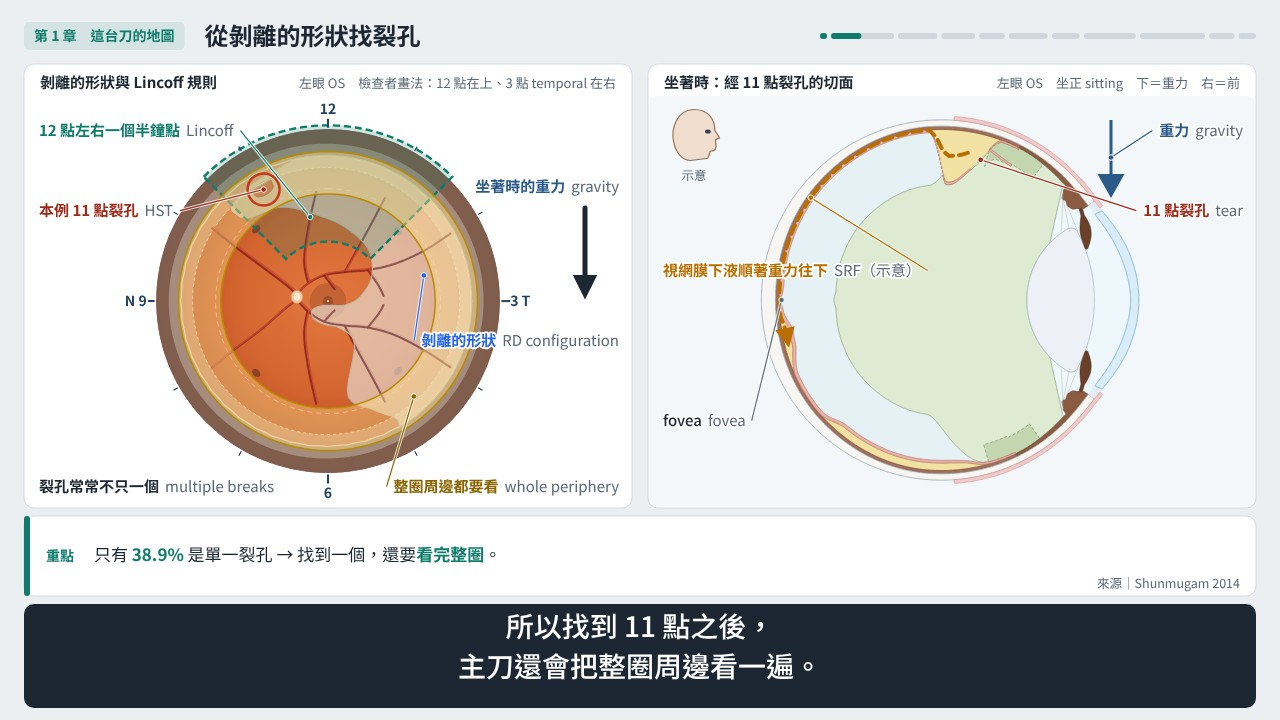
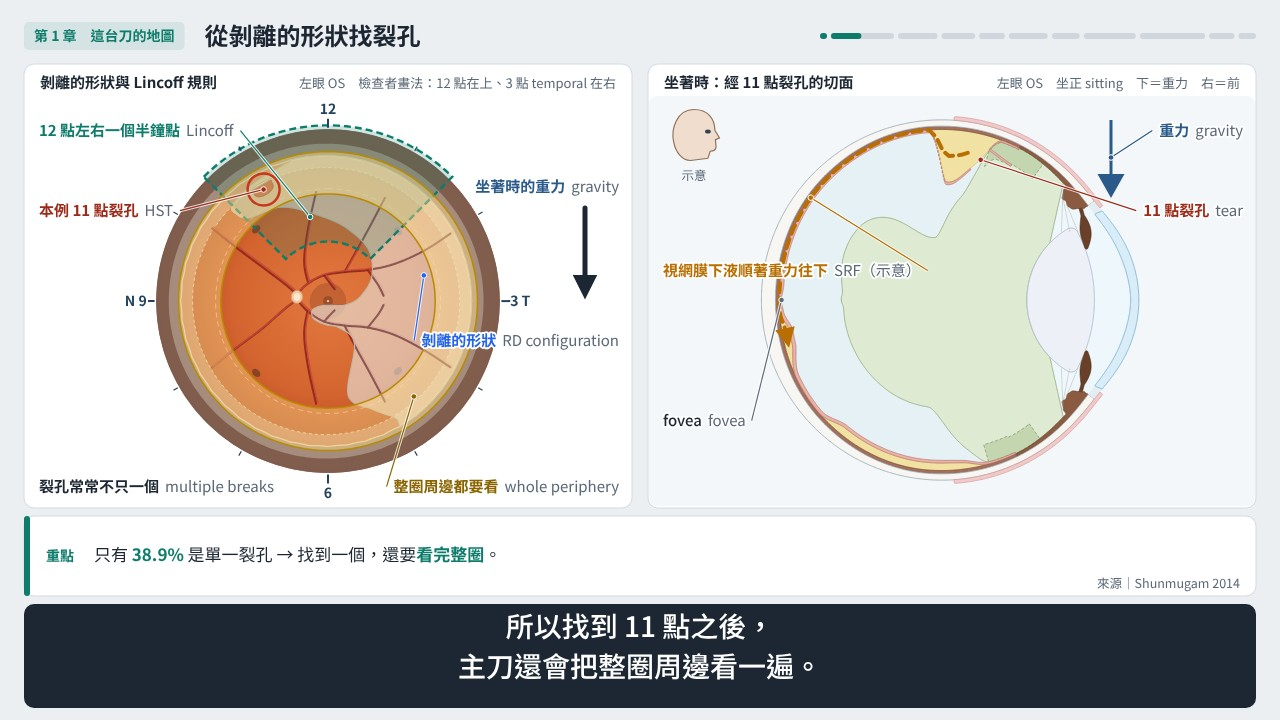
後段模型：PVD 時後玻璃體和鼓起的剝離視網膜之間留空隙
原本後玻璃體用視網膜貼平時的位置量距離，剝離鼓起的地方玻璃體被腔的邊界切掉，看起來整片貼在剝離的視網膜上（例：4-2 左圖），像沒有 PVD。改成：vitreous base 與還沒分開的地方貼在目前的視網膜上，分開後沿剝離的平滑上包絡走、和目前的視網膜保持 3.5 mm 空隙（示意），黃斑的舌頭不再讓它起伏；core vitrectomy 剩下的玻璃體殼跟著往內移、厚度不變。posterior/check.js 加 D13（空隙、vitreous base 與瓣上黏著、平滑、殼的厚度）與 4 個故意改錯；4-1 廣角的 PVD 範圍環改畫在後玻璃體上；樣本圖與 1-1、1-2、1-3、2-1、2-2、3-1、3-2、4-1、4-2 的參考圖放大自檢後更新；模型卡同步。

diff --git a/videos/models/posterior/posterior.js b/videos/models/posterior/posterior.js
@@ -37,6 +37,7 @@ const POSTERIOR = (() => {
     field: 130,                                 // non-contact wide-angle field, degrees (Tabandeh 2012: most systems 120–140°; 130 示意)
     vortex: 7.6,                                // vortex vein ampullae 7.6 mm behind the ora (Sohn 2020)
     pvdGap: 3.5,                                // detached posterior hyaloid in front of the retina (示意)
+    pvdEnv: 3.4,                                // the hyaloid rides over a smooth envelope of the detachment: dilation radius on the fundus chart, mm (示意)
   };
 
   // ---------------------------------------------------------------- outer profile 0–180° (globe/ stops at 150°): same formula and step
@@ -169,7 +170,23 @@ const POSTERIOR = (() => {
       buf[j * NX + i] = (inside ? 1 : -1) * Math.sqrt(bd); }
     const f = (x, y) => { const u = (x - X0) / ST, v = (y - X0) / ST; if (u < 0 || v < 0 || u >= NX - 1 || v >= NX - 1) return -9;
       const i = Math.floor(u), j = Math.floor(v), a = u - i, b = v - j, q = j * NX + i; return lerp(lerp(buf[q], buf[q + 1], a), lerp(buf[q + NX], buf[q + NX + 1], a), b); };
-    if (SDF_CACHE.size > 20) SDF_CACHE.delete(SDF_CACHE.keys().next().value); SDF_CACHE.set(key, f); return f;
+    f.key = key; if (SDF_CACHE.size > 20) SDF_CACHE.delete(SDF_CACHE.keys().next().value); SDF_CACHE.set(key, f); return f;
+  }
+  // smooth upper envelope of a height field on the fundus chart (2026-11-12; the posterior hyaloid over a detachment): fn (chart mm → mm) sampled on the
+  // sdf's raster, dilated (square, radius 2B + 1 cells ≈ N.pvdEnv) and blurred twice by boxes of B cells (support 2B), so at every point the envelope
+  // ≥ fn within a cell (smooth: no bumps where the field has them); bilinear, cached by key
+  const ENV_CACHE = new Map();
+  function envOf(key, fn) {
+    if (ENV_CACHE.has(key)) return ENV_CACHE.get(key);
+    const X0 = -32, ST = 0.2, NX = 321, n = NX * NX, B = Math.max(1, Math.floor((N.pvdEnv / ST - 1) / 2)), RR = 2 * B + 1, a = new Float32Array(n), b = new Float32Array(n);
+    for (let j = 0; j < NX; j++) for (let i = 0; i < NX; i++) a[j * NX + i] = fn(X0 + i * ST, X0 + j * ST);
+    const pass = (src, dst, r, max, dx) => { for (let j = 0; j < NX; j++) for (let i = 0; i < NX; i++) { let m = 0, cnt = 0;
+        for (let k = -r; k <= r; k++) { const ii = i + k * dx, jj = j + k * (1 - dx); if (ii < 0 || jj < 0 || ii >= NX || jj >= NX) continue; const v = src[jj * NX + ii]; if (max) { if (v > m) m = v; } else { m += v; cnt++; } }
+        dst[j * NX + i] = max ? m : m / cnt; } };
+    pass(a, b, RR, true, 1); pass(b, a, RR, true, 0); for (let k = 0; k < 2; k++) { pass(a, b, B, false, 1); pass(b, a, B, false, 0); }
+    const f = (x, y) => { const u = (x - X0) / ST, v = (y - X0) / ST; if (!(u >= 0 && v >= 0 && u < NX - 1 && v < NX - 1)) return 0;
+      const i = Math.floor(u), j = Math.floor(v), p = u - i, q = v - j, o = j * NX + i; return lerp(lerp(a[o], a[o + 1], p), lerp(a[o + NX], a[o + NX + 1], p), q); };
+    if (ENV_CACHE.size > 12) ENV_CACHE.delete(ENV_CACHE.keys().next().value); ENV_CACHE.set(key, f); return f;
   }
 
   // ---------------------------------------------------------------- state
@@ -233,6 +250,19 @@ const POSTERIOR = (() => {
     const sk = st.suck ? Object.assign({ w: 1.0 }, st.suck) : null;
     const H = !sk ? H0 : (s, h) => { const b = H0(s, h); if (!(b > 0)) return b; const ds = s - sk.s; let dh = h - sk.h; dh -= 12 * Math.round(dh / 12);
       const dc = dh * 30 * D2R * surfAt(sk.s).rho; return b + sk.amt * ss(0, 0.3, b) * Math.exp(-(ds * ds + dc * dc) / (sk.w * sk.w)); };
+    // posterior hyaloid (2026-11-12): hya(s, h) = how far it lies in front of where the retina's inner surface is when attached (mm). In the vitreous
+    // base, and where it has not come off yet (pvd), it lies on the retina as it is now (H0, detached or not). Behind the line where it comes off
+    // (hyaSp) it leaves the retina for env, a smooth upper envelope of the detachment (env ≥ H0), within 1.5 mm (B 0 → 1), and its gap above env
+    // rises to N.pvdGap over 5 mm (R 0 → 1): it keeps a gap ≥ R × N.pvdGap from the bulging retina, and away from where it comes off it does not
+    // follow the bumps of the border (the macular tongue). env is the detachment for amt 1 (without suck) on the fundus chart, built on first use.
+    let ENV = null;
+    const env = (fx, fy) => { if (!rd || !(rd.amt > 0)) return 0;
+      if (!ENV) ENV = envOf(sdf.key + JSON.stringify([ts, rd.lo, rd.hi, st.pfcl > 0 ? [lev.pfcl, g] : 0]), (x, y) => { const hs = hsChart(x, y), ora = oraAt(hs.h, ts); if (hs.s < ora) return 0;
+        const d = sdf(x, y); return d <= 0 ? 0 : Hpk(x, y) * ss(0, 1.2, d) * ss(ora, ora + 5.0, hs.s) * flat(hs.h, hs.s); });
+      return rd.amt * ENV(fx, fy); };
+    const hyaSp = h => lerp(S_POLE + 2, vbPostAt(h, ts), st.pvd || 0);
+    const hya = (s, h) => { const h0 = H0(s, h); if (s < oraAt(h, ts)) return h0; const sp = hyaSp(h), R = ss(sp, sp + 5, s), B = ss(sp, sp + 1.5, s); if (!(R > 0)) return h0;
+      const [fx, fy] = chartHS(h, s), he = Math.max(env(fx, fy), h0); return h0 + B * (he - h0) + R * N.pvdGap; };
     const Dp = (s, h) => { if (!dep) return 0; const ds = s - dep.s; let dh = h - dep.h; dh -= 12 * Math.round(dh / 12); const dc = dh * 30 * D2R * surfAt(dep.s).rho; return dep.depth * Math.exp(-(ds * ds + dc * dc) / (dep.w * dep.w)); };
     const rtHS = (h, s) => { const [fx, fy] = chartHS(h, s); return rtAt(fx, fy, s, oraAt(h, ts), D); };
     // a point on the retina: frac 0 = outer (photoreceptor) side, 1 = inner (ILM) side; includes the detachment and the indentation
@@ -244,7 +274,7 @@ const POSTERIOR = (() => {
       const fr = (fn) => { const Q = fn(t.h, sh, 0.5), eu = unit(sub(fn(t.h, sh + 0.05, 0.5), fn(t.h, sh - 0.05, 0.5))), ec0 = unit(sub(fn(t.h + 0.005, sh, 0.5), fn(t.h - 0.005, sh, 0.5)));
         const ec = unit(sub(ec0, mul(eu, dot(ec0, eu)))); let en = unit(cross(ec, eu)); if (dot(en, Q) > 0) en = mul(en, -1); return { Q, eu, ec, en }; };
       tear = Object.assign({ sh, ts }, t, { fr: fr(ret), fr0: fr(ret0), th: rtHS(t.h, sh), ang: t.flap * D2R }); }
-    return { st, ts, D, g, rd, poly, sdf, H, H0, Dp, lev, dep, ret, ret0, rtHS, tear, flat, suck: sk };
+    return { st, ts, D, g, rd, poly, sdf, H, H0, Dp, lev, dep, ret, ret0, rtHS, tear, flat, suck: sk, env, hyaSp, hya };
   }
   // U-shaped hole in tangent coordinates (u posterior from the hinge, c across): signed distance, negative inside
   function sdU(u, c, W, L) { const r = W / 2, cx = (L - r) / 2, hx = (L - r) / 2, qx = Math.abs(u - cx) - hx, qy = Math.abs(c) - r;
@@ -366,11 +396,13 @@ const POSTERIOR = (() => {
       iris: c => { if (c.rho < N.pupil - 0.3 || c.rho > IRIS.root[1] + 0.8 || c.z < IRIS.root[0] - 0.8 || c.z > IRIS.pm[0] + 1.0) return 1; const q = [c.z, c.rho];
         let bd = 1e9, bt = 0; const L = IRIS.line; for (let i = 1; i < L.length; i++) { const a = L[i - 1], e = [L[i][0] - a[0], L[i][1] - a[1]], l2 = e[0] * e[0] + e[1] * e[1]; let t = ((q[0] - a[0]) * e[0] + (q[1] - a[1]) * e[1]) / l2; t = clamp(t, 0, 1);
           const d = Math.hypot(q[0] - a[0] - e[0] * t, q[1] - a[1] - e[1] * t); if (d < bd) { bd = d; bt = (i - 1 + t) / (L.length - 1); } } return bd - IRIS.th(bt) / 2; },
-      // vitreous gel: in the cavity, in front of the posterior hyaloid (detached by pvd), within the shell left by the cutter; a cord holds the flap
-      gel: c => { const cv = cav(c); if (cv > 0.5) return 1; const e = c.dd - innerD(c) + c.H;   // mm in front of where the retina's inner surface lies when attached (smooth hyaloid over a detachment)
-        const vbp = vbPostAt(c.h, ts), spvd = lerp(S_POLE + 2, vbp, st.pvd || 0), gap = c.s < c.ora ? 0 : N.pvdGap * ss(spvd, spvd + 5, c.s);
+      // vitreous gel: in the cavity, in front of the posterior hyaloid (detached by pvd: Gm.hya, the same formula), within the shell left by the cutter;
+      // a cord holds the flap. Where the hyaloid has come off, the gel body rides over the detachment's envelope (B × he): the shell keeps its thickness
+      gel: c => { const cv = cav(c); if (cv > 0.5) return 1; const e = c.dd - innerD(c) + c.H;   // mm in front of where the retina's inner surface lies when attached
+        const vbp = vbPostAt(c.h, ts), sp = Gm.hyaSp(c.h), R = c.s < c.ora ? 0 : ss(sp, sp + 5, c.s), B = R > 0 ? ss(sp, sp + 1.5, c.s) : 0;
+        const h0 = Gm.suck ? Gm.H0(c.s, c.h) : c.H, he = R > 0 ? Math.max(Gm.env(c.fx, c.fy), h0) : h0, hy = h0 + B * (he - h0) + R * N.pvdGap;
         let shell = lerp(30, 3.0, vit.cut); if (vit.shave > 0) shell = c.s < vbp + 0.5 ? lerp(shell, 0.45, vit.shave) : lerp(shell, 0, vit.shave);
-        let gg = Math.max(cv, gap - e, e - shell);
+        let gg = Math.max(cv, hy - e, e - shell - B * he);
         if (cord && cord.b) gg = Math.min(gg, Math.max(cv, capsule(c.p, cord.a, cord.b, 0.32 * (1 - vit.shave))));
         return gg; },
       // vitreous base (示意 thickness 1.2 mm): the gel firmly attached from 2 mm in front of the ora to its posterior border
@@ -418,7 +450,7 @@ const POSTERIOR = (() => {
         anc('plana' + k, P3(hh, (PLICATA_END + ora) / 2, G.T((PLICATA_END + ora) / 2) + 0.1)); anc('plicata' + k, P3(hh, GN.spur + 1.0, G.T(GN.spur + 1.0) + 0.5)); anc('limbus' + k, P3(hh, 0, 0));
         anc('equator' + k, Gm.ret(hh, S_EQ, 1)); anc('choroid' + k, P3(hh, S_EQ + 3, Tp(S_EQ + 3) + chorAt(S_EQ + 3) / 2)); anc('sclera' + k, P3(hh, S_EQ + 3, Tp(S_EQ + 3) / 2));
         anc('vb' + k, P3(hh, ora, G.T(ora) + cilTh(ora - GN.spur, ora - GN.spur) + 0.6));
-        const sp = S_POLE - 4, spvd = lerp(S_POLE + 2, vbPostAt(hh, ts), st.pvd || 0); anc('hyaloid' + k, P3(hh, sp, Tp(sp) + chorAt(sp) + Gm.rtHS(hh, sp) + N.pvdGap * ss(spvd, spvd + 5, sp))); }
+        const sp = S_POLE - 4; anc('hyaloid' + k, P3(hh, sp, Tp(sp) + chorAt(sp) + Gm.rtHS(hh, sp) + Gm.hya(sp, hh))); }
       A.hyaloid = A.hyaloidL;
       anc('fovea', Gm.ret(12, S_POLE, 1)); anc('lens', [0, 0, (LENS.za + LENS.zp) / 2]); anc('lensBack', [0, 0, LENS.zp]); }
     anc('centre', [0, 0, 0]);

diff --git a/videos/models/posterior/check.js b/videos/models/posterior/check.js
@@ -43,6 +43,7 @@ const LIT = {
   shaft: 0.6,                             // de Oliveira 2016 (23G)
   foveola: 0.35,                          // Curcio 1990
   coverSit: 0.035,                        // 推算 (CARD.md): smallest gas fraction that covers the whole 11 o'clock tear sitting upright, flat interface
+  pvdGap: 3.5, pvdRise: 5,                // 示意 (CARD.md): with a PVD the hyaloid lies 3.5 mm in front of the retina, reached 5 mm behind the vitreous base
 };
 const CASE = { eye: 'OS', tear: 11, rdFrom: 11.5, rdTo: 5 };   // 病例 (spec.md, 2026-11-12)
 const oraLit = (h, eye = 'OS') => { const ts = eye === 'OS' ? 1 : -1; return (LIT.oraT + LIT.oraN) / 2 + (LIT.oraT - LIT.oraN) / 2 * clockDir(h)[0] * ts; };   // smooth between clock hours (示意)
@@ -231,6 +232,40 @@ def('D10', (P, ok) => { const at = (st, h, s, e) => { const Gm = P.geom(st), f =
   ok(at({ eye: 'OS', pvd: 0 }, 12, P.S_POLE - 0.5, 0.1), 'no PVD: gel on the retina at the posterior pole');
   ok(!at({ eye: 'OS', pvd: 1 }, 12, P.S_POLE - 0.5, 0.1) && !at({ eye: 'OS', pvd: 1 }, 12, P.S_POLE - 0.5, 2.0), 'PVD: no gel within 2 mm of the posterior pole');
   ok(at({ eye: 'OS', pvd: 1 }, 3, oraLit(3) + 0.5, 0.1), 'PVD: gel still on the retina at the vitreous base'); });
+// D13 PVD over the detachment (2026-11-12; Govetto 2024: every eye with a tear has a PVD). Measured on the drawn gel along the wall's inward normal from the
+// retina as it is now (detached, bulging): behind the vitreous base (outside the tear and its flap, not at the disc) the hyaloid is off the retina from 1 mm
+// on and ≥ 3.5 mm off it from 5 mm on (示意, CARD.md), also over the bullous part; in the vitreous base and on the flap's free edge the gel touches it.
+// Smooth: along the 5 o'clock meridian (the section of the videos) the retina rises twice (the inferior detachment, then the macular tongue) but the
+// hyaloid rises once and stays (it does not follow the tongue), and along 11 o'clock it has one hump at most. After a core vitrectomy the gel left over the
+// bulge is as thick as over attached retina (the gel body is displaced, not cut away)
+def('D13', (P, ok) => { const st = P.PRESET.rrd, Gm = P.geom(st), f = P.makeCtx(Gm), T = Gm.tear, vbp = h => P.vbPostAt(h, 1);
+  // the first gel along n from p (mm; 0 when p is in the gel) and where that gel ends
+  const gelRun = (ff, p, n, max = 14) => { const g = d => ff.gel(ff.at(add(p, mul(n, d)))) < 0; let d = 0; while (d <= max && !g(d)) d += 0.05; if (d > max) return [max, max];
+    let a = d; if (d > 0) { let lo = d - 0.05, hi = d; for (let k = 0; k < 8; k++) { const m = (lo + hi) / 2; g(m) ? hi = m : lo = m; } a = hi; }
+    let e = d; while (e <= max && g(e)) e += 0.05; return [a, e]; };
+  const inward = (h, s) => mul(P.N3(h, s), -1), gapAt = (h, s, ff = f, G2 = Gm) => gelRun(ff, G2.ret(h, s, 1), inward(h, s))[0];
+  const skip = (h, s) => (Math.abs(hdiff(h, CASE.tear)) < 0.6 && s < vbp(h) + T.L + 1.5) || f.at(Gm.ret(h, s, 1)).dq < 1.3;   // the tear and its flap; the disc
+  let off = 9, full = 9, offAt = '', fullAt = '', n = 0, Hbig = 0, nBig = 0;
+  for (let h = 0.5; h <= 12; h += 0.5) for (let s = vbp(h) + 1; s <= P.S_POLE - 0.4; s += 0.5) { if (skip(h, s)) continue; const g = gapAt(h, s), H = Gm.H(s, h); n++;
+    if (s < vbp(h) + LIT.pvdRise) { if (g < off) { off = g; offAt = `${h} o'clock ${(s - vbp(h)).toFixed(1)} mm behind the base`; } }
+    else { if (g < full) { full = g; fullAt = `${h} o'clock ${(s - vbp(h)).toFixed(1)} mm behind the base, retina detached ${H.toFixed(2)} mm`; } if (H >= 3) { nBig++; Hbig = Math.max(Hbig, H); } } }
+  ok(n > 300 && off >= 0.1 && full >= LIT.pvdGap - 0.05 && nBig > 10,
+    `PVD, ${n} points behind the vitreous base: hyaloid off the retina as it is now ≥ ${off.toFixed(2)} mm within ${LIT.pvdRise} mm of the base (${offAt}), ≥ ${full.toFixed(2)} mm beyond (${fullAt}; 示意 ${LIT.pvdGap}), ${nBig} of them over retina detached ≥ 3 mm (up to ${Hbig.toFixed(2)})`);
+  let vb = 0; for (let h = 0.5; h <= 12; h += 1) for (const s of [oraLit(h) + 0.3, (oraLit(h) + vbp(h)) / 2, vbp(h) - 0.3]) vb = Math.max(vb, gapAt(h, s));
+  const fe = P.flapPt(T, T.L, 0), onFlap = [[0, 0, 0], [0.12, 0, 0], [0, 0.12, 0], [0, 0, 0.12], [-0.12, 0, 0], [0, -0.12, 0], [0, 0, -0.12]].some(e => inside(f, 'gel', add(fe, e)));
+  ok(vb <= 0.05 && onFlap, `gel on the retina in the vitreous base all round (gap ≤ ${vb.toFixed(2)} mm) and on the flap's free edge (${onFlap ? 'yes' : 'no'})`);
+  // smoothness: humps of a profile (a rise then a fall, each more than 0.1 mm; the macular tongue is 0.5 mm high)
+  const humps = v => { let n = 0, up = null, ext = v[0];
+    for (const x of v) { if (up === null) { if (Math.abs(x - ext) > 0.1) { up = x > ext; ext = x; } }
+      else if (up) { if (x > ext) ext = x; else if (x < ext - 0.1) { n++; up = false; ext = x; } }
+      else { if (x < ext) ext = x; else if (x > ext + 0.1) { up = true; ext = x; } } }
+    return n; };
+  const prof = h => { const hy = [], rt = []; for (let s = vbp(h) + 1; s <= P.S_POLE - 0.4; s += 0.25) { hy.push(gelRun(f, Gm.ret0(h, s, 1), inward(h, s))[0]); rt.push(Gm.H(s, h)); } return { hy: humps(hy), rt: humps(rt) }; };
+  const p5 = prof(5), p11 = prof(11);
+  ok(p5.rt >= 2 && p5.hy === 0 && p11.hy <= 1, `smooth hyaloid: along 5 o'clock the retina has ${p5.rt} humps (detachment, macular tongue), the hyaloid ${p5.hy}; along 11 o'clock the hyaloid has ${p11.hy}`);
+  const cut = Object.assign({}, st, { vit: { cut: 0.85 } }), Gc = P.geom(cut), fc = P.makeCtx(Gc), thick = (h, s) => { const r = gelRun(fc, Gc.ret(h, s, 1), inward(h, s)); return r[1] - r[0]; };
+  const tB = Math.min(...[[1, 15], [1.5, 16], [12, 15]].map(([h, s]) => thick(h, s))), tA = thick(9, 18);
+  ok(Gc.H(15, 1) >= 3 && near(tB, tA, 0.2), `core vitrectomy: the gel left is ${tB.toFixed(2)} mm thick over the bullous detachment, ${tA.toFixed(2)} mm over attached retina`); });
 // D11 PFCL (supine): sinks to the posterior pole, flattens the retina under it, the 11 o'clock tear above it (fluid leaves there; narration 6-1)
 def('D11', (P, ok) => { const st = P.PRESET.pfcl, Gm = P.geom(st), f = P.makeCtx(Gm), up = p => -dot(p, Gm.g), L = Gm.lev.pfcl;
   ok(inside(f, 'pfcl', P.P3(12, P.S_POLE - 0.3, P.Tp(P.S_POLE) + 0.254 + 0.5)) && !inside(f, 'pfcl', [0, 0, 4]), 'PFCL at the posterior pole, not at the front of the cavity');
@@ -346,7 +381,11 @@ const MUT = [
   ['trocar marks half an hour off on the chart', ['D8'], { src: [['const q = proj(P3(t.h, t.s, 0.6));', 'const q = proj(P3(t.h + 0.5, t.s, 0.6));']] }],
   ['TA outside the gel', ['D9'], { src: [['gg = f.gel(c); if (!(gg < 0)) continue;', 'gg = f.gel(c); if (!(gg < 3)) continue;']] }],
   ['TA drawn without TA', ['D9'], { src: [["if (!(st.ta > 0)) return ''; const o = [], cell", "if (!(st.ta > -1)) return ''; const o = [], cell"], ['if (r3 > 0.55 * st.ta) continue;', 'if (r3 > 0.55) continue;']] }],
-  ['PVD never detaches', ['D10'], { src: [['N.pvdGap * ss(spvd, spvd + 5, c.s)', 'N.pvdGap * ss(spvd, spvd + 5, c.s) * 0']] }],
+  ['PVD never detaches', ['D10'], { src: [['hy = h0 + B * (he - h0) + R * N.pvdGap;', 'hy = h0 + B * (he - h0) + R * N.pvdGap * 0;']] }],
+  ['hyaloid kept where the retina lies when attached (gel on the bulging retina)', ['D13'], { src: [['hy = h0 + B * (he - h0) + R * N.pvdGap;', 'hy = R * N.pvdGap;']] }],
+  ['hyaloid follows the retina as it is now (bumps of the macular tongue)', ['D13'], { src: [['he = R > 0 ? Math.max(Gm.env(c.fx, c.fy), h0) : h0, hy', 'he = h0, hy']] }],
+  ['gel left after core vitrectomy cut away over the bulge', ['D13'], { src: [['e - shell - B * he);', 'e - shell);']] }],
+  ['hyaloid comes off inside the vitreous base', ['D13'], { src: [['const hyaSp = h => lerp(S_POLE + 2, vbPostAt(h, ts), st.pvd || 0);', 'const hyaSp = h => lerp(S_POLE + 2, oraAt(h, ts) - 1, st.pvd || 0);']] }],
   ['PFCL does not flatten', ['D11'], { src: [['return ss(lev.pfcl - 0.2, lev.pfcl + 0.8, up); };', 'return 1; };']] }],
   ['PFCL floats', ['D11', 'E2'], { src: [['pfcl: pf > 0 ? q(pf) : -1e9', 'pfcl: pf > 0 ? q(1 - pf) : -1e9'], ['Math.max(cav(c), -dot(c.p, g) - lev.pfcl)', 'Math.max(cav(c), dot(c.p, g) + lev.pfcl)']] }],
   ['laser without the posterior arc', ['D12'], { src: [['for (let a = -90; a <= 90; a += 2) add_(', 'for (let a = -90; a <= -88; a += 2) add_(']] }],

diff --git a/videos/src/rrd-ppv-c3f8/anim/views-posterior.js b/videos/src/rrd-ppv-c3f8/anim/views-posterior.js
@@ -239,10 +239,10 @@ const VP = (() => {
     if (st.ta > 0 && o2.taNear) { const ff = P.makeCtx(Gm); let best = 1e9;
       for (let k = 0; k < 900; k++) { if (G.hash(k, 11) > 0.6 * st.ta) continue; const p = [24 * G.hash(k, 12) - 12, 24 * G.hash(k, 13) - 12, 20 * G.hash(k, 14) - 12];
         if (G.len(p) > 12 || !(ff.gel(ff.at(p)) < 0)) continue; const q = Wm.proj(p), d = Math.hypot(q[0] - o2.taNear[0], q[1] - o2.taNear[1]); if (d < best) { best = d; A.taSpeck = q; } } }
-    // 4-1 line 3 (示意): where the posterior hyaloid has come off, a ring half way up its rise (the model's PVD: from the pole out to the vitreous base)
+    // 4-1 line 3 (示意): where the posterior hyaloid has come off, a ring on it half way up its rise (the model's PVD: from the pole out to the vitreous base; Gm.hya)
     if (o2.pvdRing && st.pvd > 0) { const ring = []; let ok = true;
       for (let i = 0; i <= 96 && ok; i++) { const h = 12 * i / 96, sp = P.S_POLE + 2 + (P.vbPostAt(h, Gm.ts) - P.S_POLE - 2) * st.pvd, s = sp + 2.5;
-        if (s > P.S_POLE - 0.4) ok = false; else ring.push(Wm.proj(P.P3(h, s, P.Tp(s) + P.chorAt(s) + Gm.rtHS(h, s) + P.N.pvdGap / 2))); }
+        if (s > P.S_POLE - 0.4) ok = false; else ring.push(Wm.proj(P.P3(h, s, P.Tp(s) + P.chorAt(s) + Gm.rtHS(h, s) + Gm.hya(s, h)))); }
       if (ok) { o.push(`<path d="M${ring.map(G.F).join('L')}Z" fill="none" stroke="#ffffff" stroke-width="2.2" stroke-dasharray="6 4" opacity="0.95" ${G.NS}/>`); A.pvdRing = ring[60]; A.pvdRingL = ring[12]; } }
     const svg = `<g transform="${c.tf}">${r.svg}<g clip-path="url(#${id}_f)">${o.join('')}</g></g>`;
     return { svg, A: mapA(A, c.P), M: A, k: c.k, P: c.P, r };

diff --git a/videos/models/posterior/CARD.md b/videos/models/posterior/CARD.md
@@ -76,7 +76,10 @@
 - **剝離的視網膜**：沿牆的法線往內移 H。
   - H＝峰值高度 × 離剝離邊界的漸升（1.2 mm）× 離 ora 的漸升（5 mm）。峰值：上方周邊 3.5 mm（bullous）、黃斑附近 0.5 mm（示意）。
   - 裂孔與瓣用瓣根部的切平面座標定義，所以在剝離或貼平時大小都一樣（見「已知的坑」）。
-- **後玻璃體**：PVD 程度 `pvd` 0→1，從後極往周邊分開，分開的地方後玻璃體在（貼平時的）視網膜前方 3.5 mm（示意）；vitreous base 處一直黏著。瓣的游離端連著一條玻璃體（牽拉，Govetto 2024），shaving 到 1 才剪斷。
+- **後玻璃體**：PVD 程度 `pvd` 0→1，從後極往周邊分開；vitreous base 處一直黏著（有裂孔的眼都有 PVD，Govetto 2024）。瓣的游離端連著一條玻璃體（牽拉，Govetto 2024），shaving 到 1 才剪斷。
+  - 位置（2026-11-12 改，`geom` 的 `hya`）：還沒分開的地方（含 vitreous base）貼在「目前的」視網膜上（剝離就跟著鼓起）。分開的地方離開視網膜，改沿著剝離的平滑上包絡（`env`）走，1.5 mm 內換過去；離包絡的距離在 5 mm 內升到 3.5 mm（三個數字都是示意）。所以後玻璃體和目前的視網膜之間至少留這段空隙，鼓起的地方也一樣，而且不跟著剝離邊界（黃斑的舌頭）起伏。
+  - 包絡：剝離高度在眼底圖網格上先取最大值（方形，半徑 3.4 mm，示意），再做兩次平均（合計 3.2 mm），所以每一點都不低於剝離高度、又是平滑的。代價是包絡會越過剝離的後緣 3–6 mm：那裡的後玻璃體離貼著的視網膜比 3.5 mm 遠（像一層膜蓋在鼓起上，示意）。
+  - core vitrectomy 剩下的玻璃體殼，在分開的地方跟著包絡一起往內移，厚度不變（玻璃體被鼓起推開，不是被切掉）；vitreous base 處照舊從牆量。
 - **雷射**：圍住裂孔兩圈，離裂孔邊緣 0.55 與 1.05 mm、點距 0.5 mm（都是示意；旁白不講排數與間距）。只能打在貼平的視網膜上（檢查）。
 
 ## 手術狀態（`state` 參數）
@@ -87,7 +90,7 @@
   - `lo`、`hi`：最低與最高的峰值高度（mm，示意）。
 - `tear: { h, w, L, flap, s }`：U 形裂孔的鐘點、寬、長（預設 1.8 mm＝1 DD）、瓣被拉起的角度（預設 95°，相對於剝離的視網膜；>90° 表示游離端往前）、瓣根部距角膜緣（預設 vitreous base 後緣）。
 - `pvd` 0→1：後玻璃體從後極往周邊分開的程度。
-- `vit: { cut, shave }` 0→1：core vitrectomy 的進度（剩下離牆 3 mm 內的玻璃體）、周邊 shaving（vitreous base 剩 0.45 mm，示意）。
+- `vit: { cut, shave }` 0→1：core vitrectomy 的進度（剩下離牆 3 mm 內的玻璃體；後玻璃體分開的地方從剝離的包絡量，見「後玻璃體」）、周邊 shaving（vitreous base 剩 0.45 mm，示意）。
 - `ta` 0→1：TA 白點（只在玻璃體上與裡面，Burk 2003）。
 - `troc`：`true`＝依眼別放三個（左眼：infusion 4:30 inferotemporal、1:30 superotemporal、10:30 superonasal；右眼鏡像），或自訂 `[{ id, h, s, ang, ins, out, inf, tip }]`：
   - `s`：預設 4 mm；`ang`：隧道斜度，預設 25°。
@@ -141,7 +144,7 @@
 | 瓣 | 拉起 95°、游離端往前、黏著玻璃體 | 牽拉在裂孔前緣（Govetto 2024，doi:10.1097/IAE.0000000000003946）；瓣往前位移（McEwan 2008）；角度示意 |
 | 剝離範圍 | 11:30 → 12 → 3 → 5 點（經 temporal）；inferior macula off、foveola 貼著；在裂孔處往鼻側包住 11 點的裂孔 | 病例（spec.md，站長 2026-11-12 確認）；後緣形狀與包住裂孔的彎是示意 |
 | 剝離高度 | 上方周邊最高 3.5 mm、黃斑 0.5 mm | 示意（bullous 是定性：PVD＋裂孔，Park 2018） |
-| 後玻璃體與視網膜的距離、玻璃體切除後剩下的厚度 | 3.5 mm；core 後 3 mm、shaving 後 0.45 mm | 示意 |
+| 後玻璃體與視網膜的距離、玻璃體切除後剩下的厚度 | 3.5 mm（離 vitreous base 後緣 5 mm 內逐漸升到；1.5 mm 內從視網膜換到剝離的包絡，包絡半徑 3.4 mm）；core 後 3 mm、shaving 後 0.45 mm | 示意 |
 | 壓鞏膜 | 寬 1.8 mm、深度由狀態給 | 示意（助手壓鞏膜的位置、方向、深度查不到，旁白說聽主刀口令） |
 | 雷射 | 兩圈、離邊緣 0.55／1.05 mm、點距 0.5 mm | 示意 |
 | 坐正時蓋住 11 點裂孔的最小氣泡 | 3.5% 玻璃體腔（頭往左肩倒 30°：0.2%） | 推算（平的液面，見上） |
@@ -152,7 +155,7 @@
   - 待決定：要不要把 `globe/` 改成 Li 2025。改的話，要重做受影響的參考圖，並確認 zone II 與 pars plana 的旁白沒有變。
 - **玻璃體腔體積**：見數值表（模型比 Zhou 2020 迴歸大 14%，仍在 de Santana 2020 的一個標準差內）。
 
-## 必寫的檢查（`check.js`，45 條、155 個判斷）
+## 必寫的檢查（`check.js`，46 條、159 個判斷）
 每條都拿畫出來的東西（組織函數、視角的定位點、3D 點）和這裡寫死的文獻數字、病例或旁白比，不拿模型自己的參數比對自己。
 - 解剖（A1–A12）：
   - ora：顳、鼻與 12 點，從畫出的視網膜與脈絡膜起點量。
@@ -174,13 +177,14 @@
   - 裂孔整個在剝離裡、離 11:30 邊緣 1 h 內、離 12 點 1.5 h 內（Yoshida 2018）。
   - foveola 貼著、inferior macula 剝離、superior macula 貼著；上方 bullous、黃斑淺。
   - 瓣根部在 vitreous base 後緣、U 的弧頂朝後、寬 1 DD；瓣往前拉起並有玻璃體連著，shaving 完才放開。
-- 手術（D1–D12）：
+- 手術（D1–D13）：
   - trocar 在 4 mm、pars plana、套管尖端在 ora 前的玻璃體腔；三個 port 的象限；隧道 20–30°。
   - 器械：軸通過 trocar、套管到尖端都在眼內腔、桿徑 0.6 mm、離水晶體 ≥ 0.5 mm。
   - infusion：尖端在玻璃體腔；兩種錯位示範（視網膜下、鞏膜下）；4:30 套管底下的視網膜是剝離的。
   - 壓鞏膜：凹陷深度；切面、眼底圖、廣角都在 11 點；推進視野（角度變小）。
   - trocar 在切面、眼底圖、顯微鏡俯視同一鐘點。
   - TA 只在玻璃體；PVD 前後；PFCL 沉到後極、壓平、裂孔在液面上；雷射一圈、在洞外、只打在貼平的視網膜。
+  - PVD 碰到剝離（D13，2026-11-12）：vitreous base 後緣以後、裂孔與瓣以外、視盤以外，從「目前的」視網膜沿法線量到玻璃體：1–5 mm 內 ≥ 0.1 mm、5 mm 以後 ≥ 3.5 mm（含剝離 ≥ 3 mm 的鼓起處）；vitreous base 一圈與瓣的游離端是 0；沿 5 點子午線視網膜起伏兩次（下方剝離、黃斑舌頭），後玻璃體只上升一次不再起伏，11 點最多一個隆起；core vitrectomy 後鼓起處剩下的玻璃體和貼著處一樣厚。
 - 物理（E1–E7）：
   - 五種頭位下，氣體與 PFCL 的液面在重力朝下的切面上都是水平線（從組織函數量）。
   - 氣體在最高處、PFCL 在最低處（重力方向寫在檢查裡）；只有臉朝下時氣泡蓋到黃斑。
@@ -190,15 +194,18 @@
   - 頭往左肩倒 30°：11 點在最上面，需要的氣泡比較少。
 - 畫圖（F1–F2）：所有預設狀態的五種視角沒有 NaN；`views.js` 七個視角都能畫。
 - 旁白（N1）：`videos/src/rrd-ppv-c3f8/anim/segments.js` 仍然講著這些檢查驗證的 24 句空間說法（例：「左眼的 11 點，在畫面下方略偏右」）。旁白改了，這條會失敗，提醒要重看對應的檢查。
-- **故意改錯（selftest，每次執行都跑）**：57 個改法，每個指定它必須弄壞的檢查，全部會報錯；而且 45 條檢查每條至少被一個改法弄壞。
+- **故意改錯（selftest，每次執行都跑）**：61 個改法，每個指定它必須弄壞的檢查，全部會報錯；而且 46 條檢查每條至少被一個改法弄壞。
   - 改法是對 `posterior.js`、`views.js` 的文字替換，或改旁白文字；替換的字串必須剛好出現一次，否則 selftest 失敗。
-  - 例：ora 改回 6.2、ora 沿上下內插、眼底圖左右翻、廣角畫成術者坐 6 點、inverter 關只左右翻、剝離從 10:30 開始、剝離的舌頭蓋到 fovea、瓣只拉起 40°、拿掉瓣上的玻璃體、trocar 7.5 mm、左眼 infusion 放 7:30、器械不經 trocar、vitrector 伸到對側 vitreous base（碰水晶體）、凹陷偏 1 個鐘點、凹陷往外凸、PFCL 浮在上面、液面歪、坐正時重力往上、雷射少了後半圈、雷射打在剝離的視網膜上、旁白寫成「略偏左」。
+  - 例：ora 改回 6.2、ora 沿上下內插、眼底圖左右翻、廣角畫成術者坐 6 點、inverter 關只左右翻、剝離從 10:30 開始、剝離的舌頭蓋到 fovea、瓣只拉起 40°、拿掉瓣上的玻璃體、後玻璃體留在貼平時的位置（貼在鼓起上）、後玻璃體跟著目前的視網膜起伏、鼓起處的玻璃體殼被切掉、後玻璃體在 vitreous base 裡就分開、trocar 7.5 mm、左眼 infusion 放 7:30、器械不經 trocar、vitrector 伸到對側 vitreous base（碰水晶體）、凹陷偏 1 個鐘點、凹陷往外凸、PFCL 浮在上面、液面歪、坐正時重力往上、雷射少了後半圈、雷射打在剝離的視網膜上、旁白寫成「略偏左」。
   - `node check.js --no-selftest` 只跑檢查（約 6 秒）；含 selftest 約 30 秒。
 
 ## 已知的坑（2026-11-12 做的時候踩到的）
 - **剝離沿法線往內移會讓東西變小**：bullous 處視網膜離中心近 3 mm，用（鐘點、距角膜緣）定義的裂孔會縮小 25%。裂孔、瓣、雷射點改用瓣根部的切平面座標（mm）定義，再投回視網膜（阻尼牛頓法），大小在剝離與貼平時都一樣。
 - **ora 附近剝離太陡，瓣貼著前面的視網膜**：漸升只有 3 mm 時，視網膜幾乎垂直離開 ora，110° 的瓣躺在它旁邊。漸升改成 5 mm、瓣改 95°。
-- **後玻璃體跟著剝離起伏**：後玻璃體用「目前的」視網膜量距離時，黃斑的舌頭讓它凹凸不平。改用貼平時的位置量；剝離的視網膜鼓起來時，玻璃體被腔的邊界切掉。
+- **後玻璃體跟著剝離起伏**：後玻璃體用「目前的」視網膜量距離時，黃斑的舌頭讓它凹凸不平；改用貼平時的位置量之後，剝離鼓起的地方玻璃體被腔的邊界切掉，看起來整片貼在剝離的視網膜上（像沒有 PVD，影片 4-2 左圖）。
+  - 2026-11-12 改成量「剝離的平滑上包絡」（見「後玻璃體」）：空隙在鼓起處也保住，黃斑不再起伏。`check.js` D13 檢查兩件事都對。
+  - 包絡的半徑一開始用 1.8 mm：11 點裂孔正好在剝離的鼻側邊緣，後玻璃體越過剝離後緣時急轉，切面上出現 V 形尖角（1-1、1-2）。加大到 3.4 mm 後變成平滑的弧。
+  - 從視網膜換到包絡的那一段若和空隙一樣用 5 mm，後玻璃體在這 5 mm 內有一半跟著剝離邊界起伏（4-1 廣角的分開範圍環出現凹口）。改成 1.5 mm 內換完。
 - **仰躺時體積比例差 2–4%**：重力剛好沿座標軸，同一層格點等高，分位數會跳一整層。玻璃體腔的格點改成「每格隨機一點」；檢查用另一組隨機格點獨立算。
 - **廣角視野外的點讓填色蓋滿畫面**：視野外的點原本丟掉，環狀填色（pars plana）斷成幾段，整個視野被蓋成褐色。改成視野外的點推到視野圓外一點點（被裁掉）。
 - **廣角看不到 11 點裂孔**：130° 視野（從觀察點算）只到赤道附近，vitreous base 後緣的裂孔在視野外。樣本與影片要看裂孔時用 `look` 轉向 11 點（示意）。和 Tabandeh 2012「BIOM 視野邊緣離 ora 1.2 mm」不一致，待核對。
